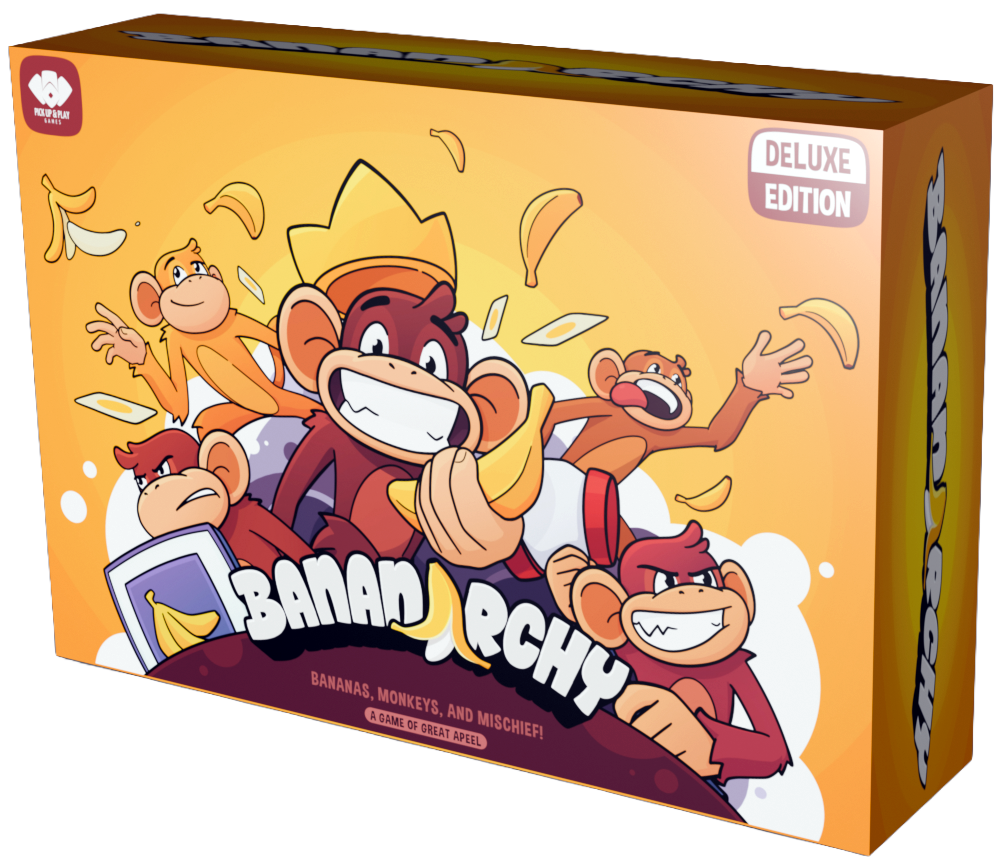
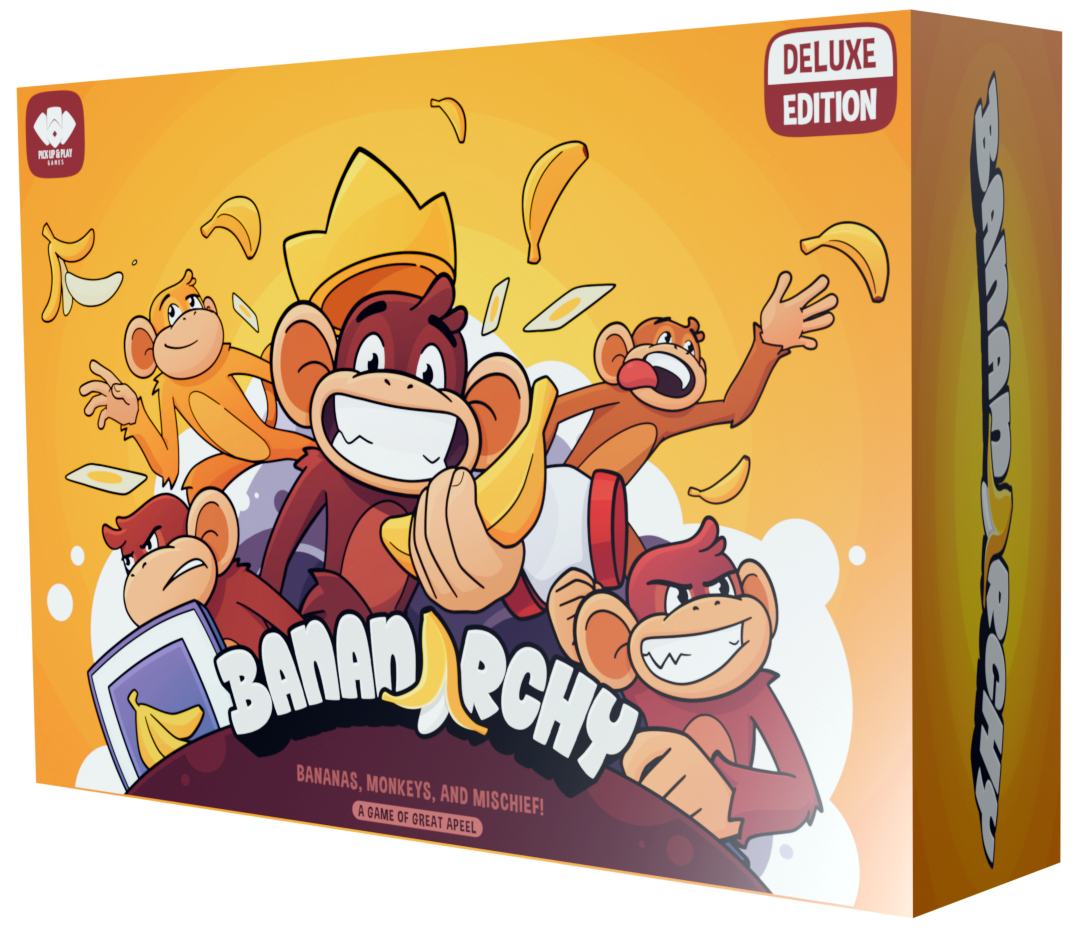
Asset updates

diff --git a/src/routes/+page.svelte b/src/routes/+page.svelte
@@ -1,6 +1,5 @@
 <script lang="ts">
 	import { onMount } from 'svelte';
-	import ConcentricCircles from '../components/ConcentricCircles.svelte';
 	import Footer from '../components/Footer.svelte';
 
 	let boxClass = '';
@@ -23,43 +22,51 @@
 	}
 </script>
 
-<div class="flex min-h-screen flex-col">
-	<div class="oback relative h-[900px] overflow-hidden lg:h-[670px]">
-		<div
-			class="absolute left-[-100%] z-[-1] flex h-[500px] justify-center p-10 opacity-60 mobile-xxs:left-[-85%] mobile-xs:left-[-55%] mobile-sm:left-[-50%] sm:left-[-34%] sm:top-[-4%] md:left-[-10%] lg:left-[32%] lg:top-[-35%] xl:left-[39%] 2xl:left-[42%]"
-		>
-			<!-- <ConcentricCircles /> -->
-		</div>
+<div class="flex min-h-screen flex-col oback">
+	<div class="relative h-[900px] overflow-hidden sm:h-[1000px] md:h-[1200px] lg:h-[670px] xl:h-[800px]">
 		<div
 			class="z-10 mx-auto flex max-w-screen-xl flex-col items-center gap-4 p-8 lg:flex-row lg:justify-between lg:pt-20"
 		>
 			<div class="flex flex-col gap-2 md:px-24 lg:w-[75%]">
 				<h1
-					class="hero-headline"
+					class="hero-headline mb-4"
 				>
 					UNO + Exploding Kittens <span class="highlight-text"><br/>had a monkey baby.</span>
 				</h1>
-				<div class="rounded-xl bg-transparent text-lg sm:text-black">
+				<div class="mb-5 rounded-xl bg-transparent text-lg sm:text-black">
 					<span class="hero-subhead">A <span class="highlight-text hightlight-text-underline">fast, always-on</span> party card game where you can <span class="highlight-text hightlight-text-underline">interrupt</span> anyone. <span class="highlight-text">
 					<p><span class="highlight-text hightlight-text-underline">Cute</span> on the outside,
 					<span class="highlight-text hightlight-text-underline">savage</span> on the inside.</p></span>	
 					</span>
+					<p class="mt-4 text-sm font-semibold tracking-wide text-white/90">
+						<span class="inline-flex items-center gap-4">
+							<span>👥 3-8 players</span>
+							<span>⏱ 15-30 mins</span>
+							<span>🎯 Ages 13+</span>
+						</span>
+					</p>
 				</div>
-				<div>
+				<div class="space-y-4">
 					<button onclick={scrollToSignup} class="cta-button w-full sm:w-auto">Get Early Access</button>
 						<ul class="hero-subhead-list mx-auto w-fit sm:w-full sm:p-4">
 							<li>⏰ Get notified the moment we go  	live</li>
 							<li>🎥 Behind-the-scenes updates</li>
-							<li>🚀 Early access to back before the public</li>
+							<!-- <li>🚀 Early access to back before the public</li> -->
 							<li>🍌 No spam, just bananas</li>
 						</ul>
 				</div>
 			</div>
 			<div class="relative">
 				<enhanced:img
-					src="$lib/assets/deluxe-box1.png"
+					src="$lib/assets/deluxe-box-2.png"
 					alt="box"
-					class={`${boxClass} sm:flex-2 m-2 w-3/5 sm:w-[675px]`}
+					class={`${boxClass} m-2 w-fit sm:w-[500px] md:w-[600px] lg:w-[675px]`}
+					sizes="(min-width: 640px) 640px, 80vw"
+				/>
+				<enhanced:img
+					src="$lib/assets/banana-peels.png"
+					alt="box"
+					class={`${boxClass} m-2 -mt-[80px] w-fit sm:w-[500px] md:w-[600px] lg:w-[675px]`}
 					sizes="(min-width: 640px) 640px, 80vw"
 				/>
 			</div>
@@ -67,16 +74,9 @@
 	</div>
 	<Footer />
 
-	<div class="section">
-		<h1 class="section-headline ">Why People Lose Their Minds Over Bananarchy</h1>
-		<!-- <ul>
-			<li>🃏 Always-on gameplay — no waiting for your turn</li>
-			<li>💥 Interrupt, counter, and sabotage in real time</li>
-			<li>😂 Loud, social, and unhinged fun</li>
-			<li>🎉 Perfect for parties, game nights, and friend betrayal</li>
-		</ul> -->
 
-		<!-- Testimonial -->
+	<!-- Testimonial -->
+	<div class="relative mx-auto max-w-[850px]">
 		<div class="testimonial">
 			<p class="testimonial-quote">
 				Bananarchy leans hard into fast, chaotic, always-on card play, and that's exactly where its appeal lies.
@@ -85,40 +85,48 @@
 				— <a href="https://www.whatboardgame.com/post/bananarchy-card-game-review" target="_blank" rel="noopener noreferrer">WhatBoardGame</a>
 			</p>
 		</div>
+		<enhanced:img
+			src="$lib/assets/leaf-shadow2.png"
+			alt="leaf shadow"
+			class="absolute -bottom-4 -right-[-2px] md:-right-2 lg:-right-4 w-24 sm:w-32"
+			sizes="(min-width: 100px) 100px"
+		/>
 	</div>
 
 
-	<div class="full bg-baorange-300 text-white">
-		<div class="flex flex-col gap-4 p-4 pt-10 lg:mx-24 xl:mx-48">
+
+	<div class="full text-white">
+		<div class="flex flex-col gap-4 p-4 lg:mx-24 xl:mx-48">
 			<div class="w-full">
-				<div class="flex flex-col items-center gap-4 lg:flex-row">
-					<div class="flex-1 py-8">
+				<div class="flex flex-col items-center gap-8 lg:flex-row">
+					<div class="flex-1 py-4">
 						<h2
 							class="section-subheadline sm:px-10 lg:px-20"
 						>
-							Always-on gameplay — no waiting for your turn
+						You're always in the game
 						</h2>
-						<p class="mt-2 text-black sm:px-10 lg:px-20">
-							Anytime cards mean you almost never have to wait your turn.
+						<p class="mt-6 overlay-panel sm:mx-10 lg:mx-20 leading-relaxed">
+							Anytime cards allow you to play whenever you want. Interrupt anyone. Flip the table in real time. 
+							Loud, lively, and unpredictable until the final draw.
 						</p>
 					</div>
 					<div class="w-[100vw] flex-1">
 						<enhanced:img
 							src="$lib/assets/shield-snatch-smash.png"
 							alt="placeholder"
-							class="w-full rounded-sm"
+							class="w-full rounded-xl"
 							sizes="(min-width: 640px) 640px, 100vw"
 						/>
 					</div>
 				</div>
 			</div>
 			<div class="w-full">
-				<div class="flex flex-col-reverse items-center gap-4 lg:flex-row">
+				<div class="flex flex-col-reverse items-center gap-8 lg:flex-row">
 					<div class="w-[100vw] flex-1 py-8">
 						<enhanced:img
 							src="$lib/assets/kitchen.png"
 							alt="placeholder"
-							class="w-full rounded-sm"
+							class="w-full rounded-xl"
 							sizes="(min-width: 640px) 640px, 100vw"
 						/>
 					</div>
@@ -126,31 +134,54 @@
 						<h2
 							class="section-subheadline sm:px-10 lg:px-20"
 						>
-						Strong “take that” energy and dramatic moments
+						Everyone plays on equal ground
 						</h2>
-						<p class="mt-2 text-black sm:px-10 lg:px-20">
-							Pop in, cause a little chaos, and scamper away. Interrupt, counter, and sabotage in real time.
+						<p class="mt-6 overlay-panel sm:mx-10 lg:mx-20 leading-relaxed">
+							Strategy won't save you here. Timing, luck, and opportunism matter more — which means kids can absolutely wreck adults. This is a family game where age doesn't give you an edge.
 						</p>
 					</div>
 				</div>
 			</div>
 			<div class="w-full">
-				<div class="flex flex-col items-center gap-4 lg:flex-row">
+				<div class="flex flex-col-reverse items-center gap-8 lg:flex-row">
+					<div class="w-[100vw] flex-1 py-8">
+						<enhanced:img
+							src="$lib/assets/placeholder.png"
+							alt="Disney artist illustration"
+							class="w-full rounded-xl"
+							sizes="(min-width: 640px) 640px, 100vw"
+						/>
+					</div>
 					<div class="flex-1 py-8">
 						<h2
 							class="section-subheadline sm:px-10 lg:px-20"
 						>
-						Perfect for parties, game nights, and friend betrayal
+						Illustrated by a former Disney artist
 						</h2>
-						<p class="mt-2 text-black sm:px-10 lg:px-20">
-							Cute chaos with a strong chance of emotional damage.
+						<p class="mt-6 overlay-panel sm:mx-10 lg:mx-20 leading-relaxed">
+							Expressive, mischievous, and full of personality. These aren't stock illustrations — they're characters you'll recognize by the end of your first game.
+						</p>
+					</div>
+				</div>
+			</div>
+			<div class="w-full">
+				<div class="flex flex-col items-center gap-8 lg:flex-row">
+					<div class="flex-1 py-8">
+						<h2
+							class="section-subheadline sm:px-10 lg:px-20"
+						>
+						Just when you think you're safe...
+						</h2>
+						<p class="mt-6 overlay-panel sm:mx-10 lg:mx-20 leading-relaxed">
+							<!-- Cute chaos with a strong chance of emotional damage. -->
+							Someone pulls the rug out. Steal bananas, flip them rotten, counter the counter. The lead changes constantly. No one runs away with it.
 						</p>
 					</div>
 					<div class="w-[100vw] flex-1 py-8">
 						<enhanced:img
 							src="$lib/assets/surprisegorilla.png"
 							alt="placeholder"
-							class="w-full rounded-sm"
+							class="w-full rounded-xl"
 							sizes="(min-width: 640px) 640px, 100vw"
 						/>
 					</div>

diff --git a/src/app.css b/src/app.css
@@ -146,8 +146,8 @@ picture {
 	background: linear-gradient(135deg, #fff8e1 0%, #fff3cd 100%);
 	border-radius: 1rem;
 	padding: 2rem 2.5rem;
-	margin: 2rem auto;
-	max-width: 800px;
+	margin: 1rem auto;
+	max-width: min(800px, 100% - 2rem); /* Shrinks to fit with margins */
 	box-shadow: 
 		0 8px 32px rgba(0, 0, 0, 0.1),
 		inset 0 1px 0 rgba(255, 255, 255, 0.8);
@@ -192,18 +192,6 @@ picture {
 	text-decoration: underline;
 }
 
-
-.section {
-	padding: 2rem;
-	flex: 1;
-	display: flex;
-	flex-direction: column;
-	justify-content: center;
-	align-items: center;
-	gap: 1rem;
-	background-color: #f6a31a;
-}
-
 .section-headline {
 	font-family: 'Londrina Solid', system-ui, sans-serif;
 	font-size: clamp(2.2rem, 5vw, 3.5rem);
@@ -224,7 +212,7 @@ picture {
 
 .section-subheadline {
 	font-family: 'Londrina Solid', system-ui, sans-serif;
-	font-size: clamp(1.2rem, 2.5vw, 3rem);
+	font-size: clamp(3rem, 2.5vw, 3rem);
 	line-height: 1.05;
 	color: #fff;
 	letter-spacing: 0.5px;
@@ -238,3 +226,14 @@ picture {
 	-1.5px  0   1px rgba(0,0,0,0.5),
 	 1.5px  0   1px rgba(0,0,0,0.5);
 }
+
+.overlay-panel {
+	max-width: 520px;
+	background: rgba(0, 0, 0, 0.25); /* adjust opacity */
+	padding: 1.5rem 1.75rem;
+	border-radius: 16px;
+	backdrop-filter: blur(2px); /* optional */
+	font-size: 1.1rem;
+	line-height: 1.7;
+}
+  
